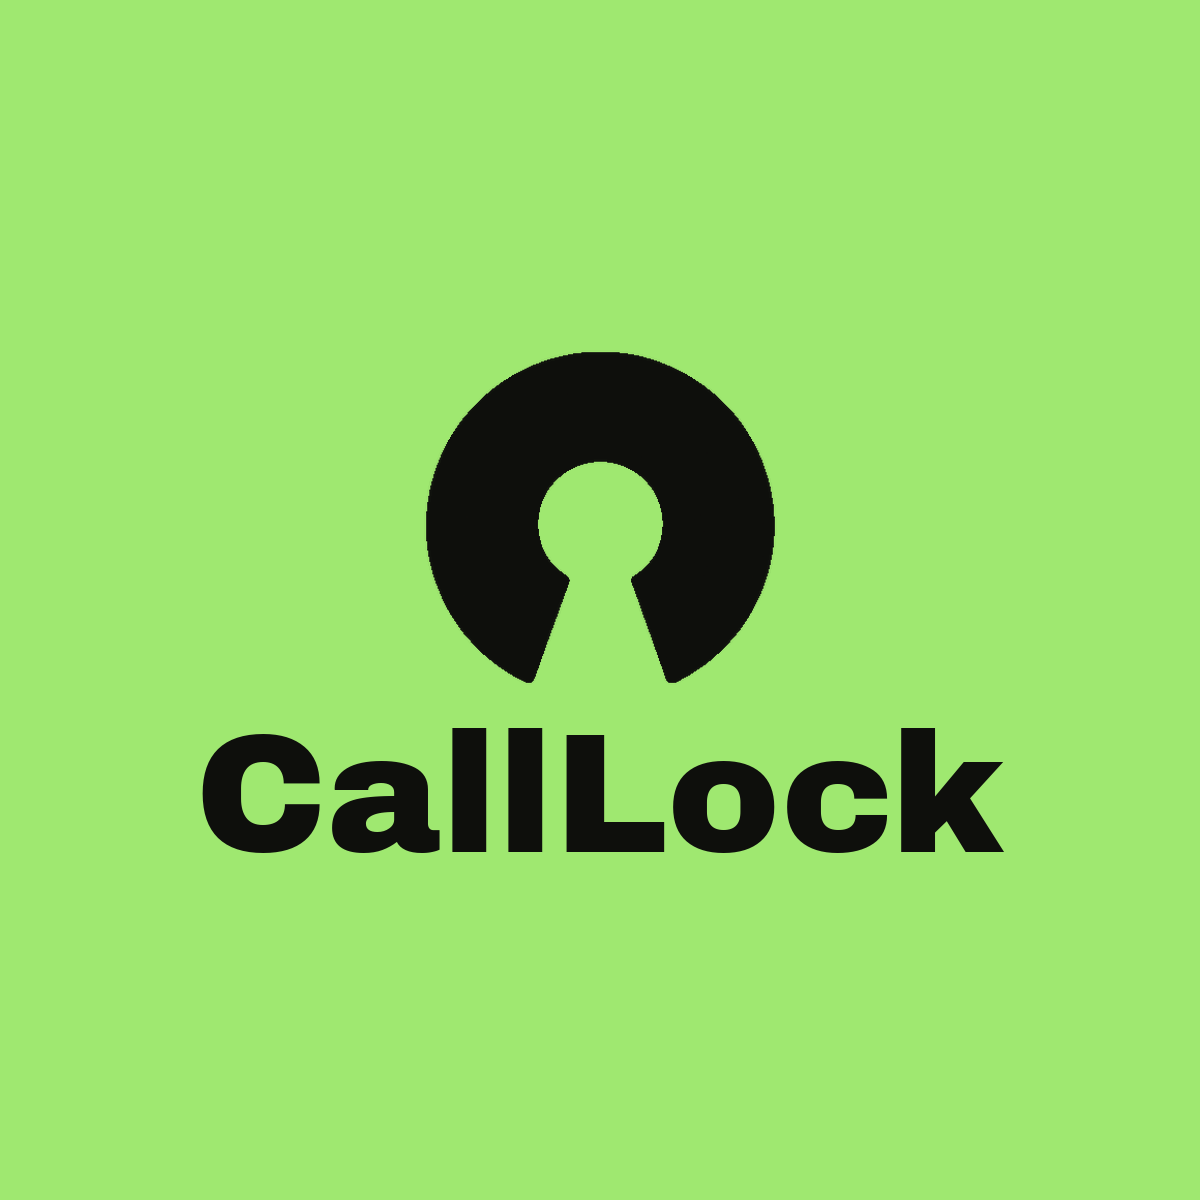
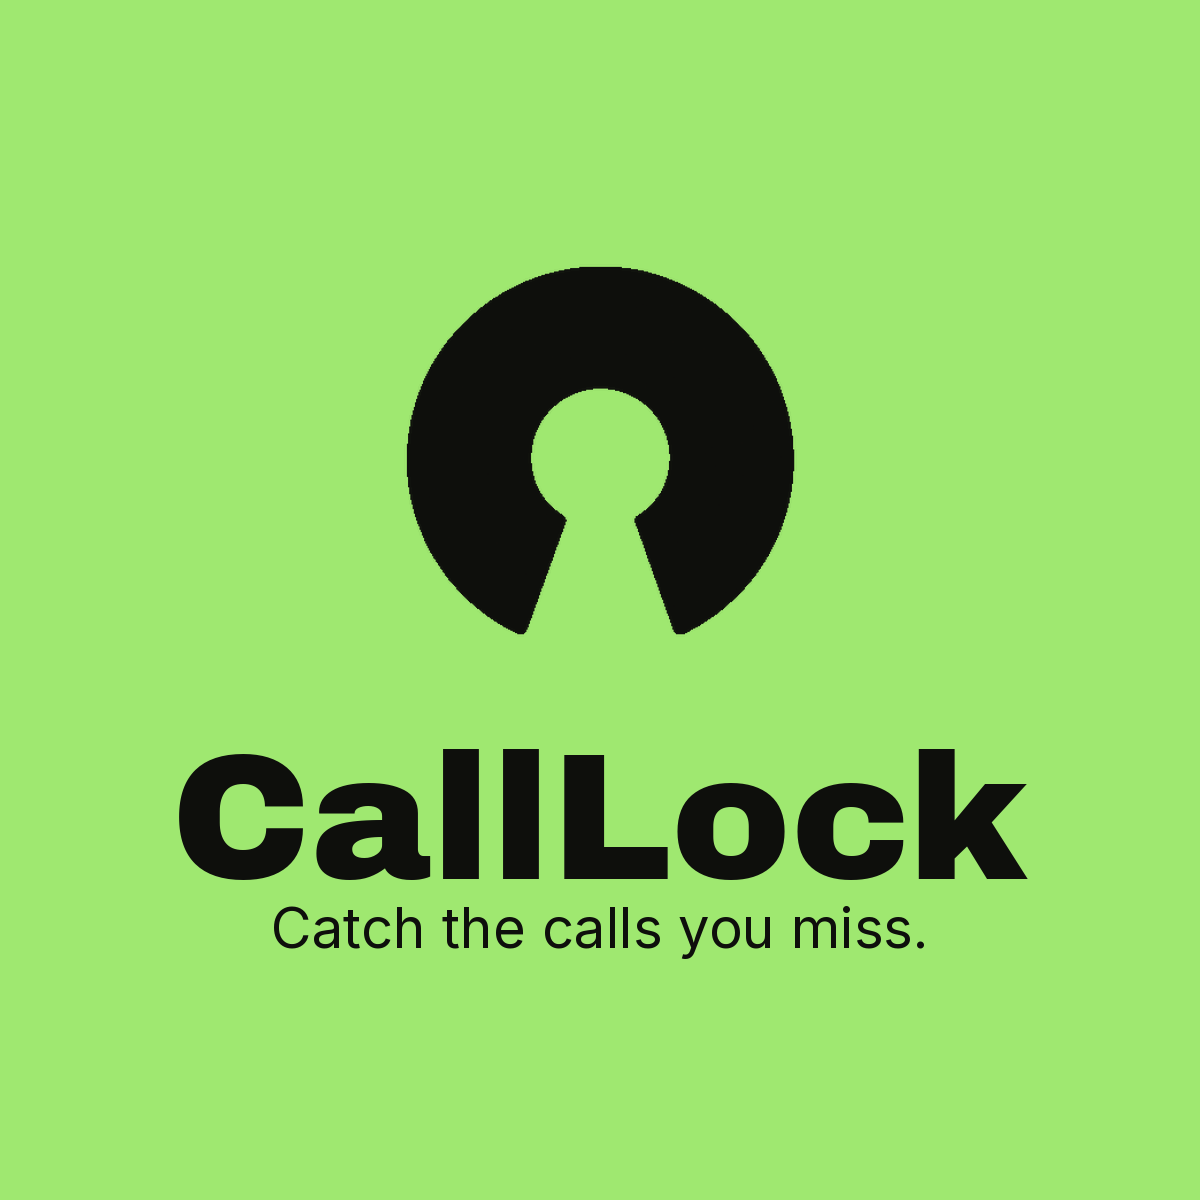
og: redesigned share image — Archivo Black wordmark + subline
- Regenerated public/calllock-og.png: brand green 1200x1200, ink keyhole
  mark, 'CallLock' in Archivo Black, 'Catch the calls you miss.' subline
  baked in.
- og:title and twitter:title now 'CallLock' (was 'CallLock — Catch the
  calls you miss.') so iMessage shows a clean 'CallLock' bold line under
  the image.
- Description moved to the short form too.

Changed region(s): [[0.1233, 0.2158, 0.8633, 0.8017]]

diff --git a/src/app/layout.tsx b/src/app/layout.tsx
@@ -42,16 +42,16 @@ export const metadata: Metadata = {
   openGraph: {
     type: "website",
     url: "https://calllock.co/",
-    title: "CallLock — Catch the calls you miss.",
-    description: "Your AI receptionist answers when you can't. Books the job, texts you the details in 30 seconds.",
+    title: "CallLock",
+    description: "Catch the calls you miss.",
     images: [
-      { url: "/calllock-og.png", width: 1200, height: 1200, alt: "CallLock" },
+      { url: "/calllock-og.png", width: 1200, height: 1200, alt: "CallLock — Catch the calls you miss." },
     ],
   },
   twitter: {
     card: "summary_large_image",
-    title: "CallLock — Catch the calls you miss.",
-    description: "Your AI receptionist answers when you can't. Books the job, texts you the details in 30 seconds.",
+    title: "CallLock",
+    description: "Catch the calls you miss.",
     images: ["/calllock-og.png"],
   },
 };
